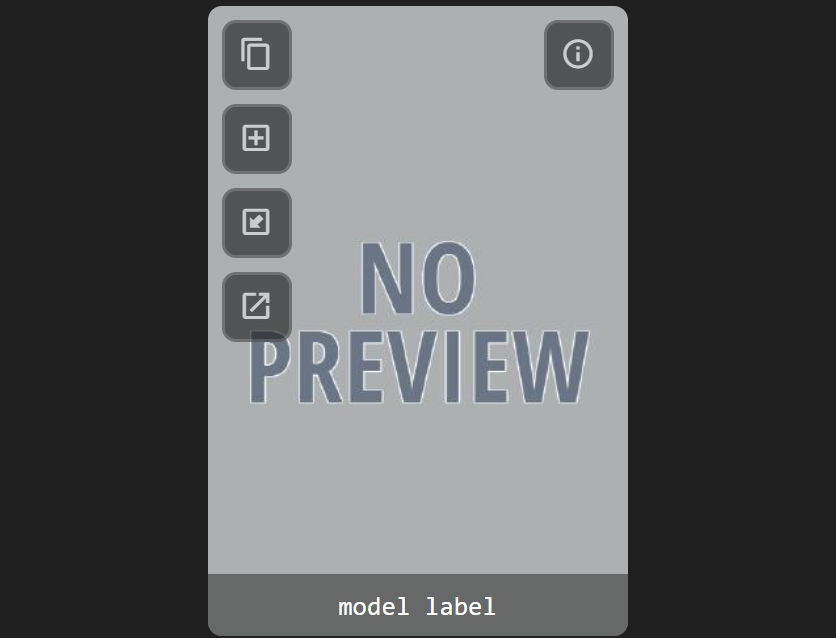
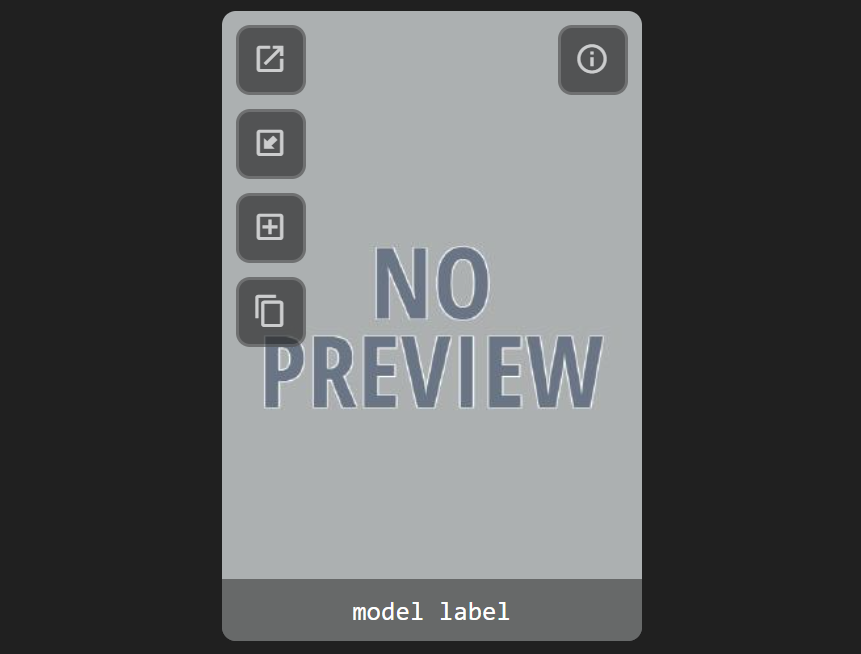
Rearranged model preview thumbnail buttons. (Ordered by action impact.) - Fixed bug with boolean to show Add and Copy buttons.

Changed region(s): [[0.2488, 0.0, 0.7775, 1.0], [0.5287, 0.3574, 0.5598, 0.4169]]

diff --git a/web/model-manager.js b/web/model-manager.js
@@ -1755,12 +1755,13 @@ class ModelGrid {
                 const widgetIndex = ModelGrid.modelWidgetIndex(nodeType);
                 const target = selectedNode?.widgets[widgetIndex]?.element;
                 if (target && target.type === "textarea") {
+                    // TODO: If the node has >1 textareas, the textarea element must be selected
                     target.value = ModelGrid.insertEmbeddingIntoText(target.value, embeddingFile, removeEmbeddingExtension);
                     success = true;
                 }
             }
             if (!success) {
-                console.warn("Try selecting a node before adding the embedding.");
+                window.alert("No selected nodes have a text area!");
             }
             event.stopPropagation();
         }
@@ -1898,10 +1899,10 @@ class ModelGrid {
         // TODO: separate text and model logic; getting too messy
         // TODO: fallback on button failure to copy text?
         const canShowButtons = modelNodeType[modelType] !== undefined;
+        const shouldShowTryOpenModelUrl = canShowButtons && settingsElements["model-show-open-model-url-button"].checked;
+        const showLoadWorkflowButton = canShowButtons && settingsElements["model-show-load-workflow-button"].checked;
         const showAddButton = canShowButtons && settingsElements["model-show-add-button"].checked;
         const showCopyButton = canShowButtons && settingsElements["model-show-copy-button"].checked;
-        const showLoadWorkflowButton = canShowButtons && settingsElements["model-show-load-workflow-button"].checked;
-        const shouldShowTryOpenModelUrl = canShowButtons && settingsElements["model-show-open-model-url-button"].checked;
         const strictDragToAdd = settingsElements["model-add-drag-strict-on-field"].checked;
         const addOffset = parseInt(settingsElements["model-add-offset"].value);
         const showModelExtension = settingsElements["model-show-label-extensions"].checked;
@@ -1925,35 +1926,20 @@ class ModelGrid {
                 const searchPath = item.path;
                 const path = SearchPath.systemPath(searchPath, searchSeparator, systemSeparator);
                 let actionButtons = [];
-                if (showAddButton && !(modelType === "embeddings" && !navigator.clipboard)) {
+                if (shouldShowTryOpenModelUrl) {
                     actionButtons.push(
                         new ComfyButton({
-                            icon: "content-copy",
-                            tooltip: "Copy model to clipboard",
+                            icon: "open-in-new",
+                            tooltip: "Attempt to open model url page in a new tab.",
                             classList: "comfyui-button icon-button model-button",
-                            action: (e) => ModelGrid.#copyModelToClipboard(
-                                e, 
-                                modelType, 
-                                path, 
-                                removeEmbeddingExtension,
-                            ),
-                        }).element,
-                    );
-                }
-                if (showCopyButton) {
-                    actionButtons.push(
-                        new ComfyButton({
-                            icon: "plus-box-outline",
-                            tooltip: "Add model to node grid",
-                            classList: "comfyui-button icon-button model-button",
-                            action: (e) => ModelGrid.#addModel(
-                                e, 
-                                modelType, 
-                                path, 
-                                removeEmbeddingExtension, 
-                                addOffset, 
-                            ),
-                        }).element,
+                            action: async (e) => {
+                                const [button, icon, span] = comfyButtonDisambiguate(e.target);
+                                button.disabled = true;
+                                const success = await tryOpenModelUrl(searchPath);
+                                comfyButtonAlert(e.target, success, "mdi-check-bold", "mdi-close-thick");
+                                button.disabled = false;
+                            },
+                        }).element
                     );
                 }
                 if (showLoadWorkflowButton) {
@@ -1974,20 +1960,35 @@ class ModelGrid {
                         }).element,
                     );
                 }
-                if (shouldShowTryOpenModelUrl) {
+                if (showAddButton) {
                     actionButtons.push(
                         new ComfyButton({
-                            icon: "open-in-new",
-                            tooltip: "Attempt to open model url page in a new tab.",
+                            icon: "plus-box-outline",
+                            tooltip: "Add model to node grid",
                             classList: "comfyui-button icon-button model-button",
-                            action: async (e) => {
-                                const [button, icon, span] = comfyButtonDisambiguate(e.target);
-                                button.disabled = true;
-                                const success = await tryOpenModelUrl(searchPath);
-                                comfyButtonAlert(e.target, success, "mdi-check-bold", "mdi-close-thick");
-                                button.disabled = false;
-                            },
-                        }).element
+                            action: (e) => ModelGrid.#addModel(
+                                e, 
+                                modelType, 
+                                path, 
+                                removeEmbeddingExtension, 
+                                addOffset, 
+                            ),
+                        }).element,
+                    );
+                }
+                if (showCopyButton && !(modelType === "embeddings" && !navigator.clipboard)) {
+                    actionButtons.push(
+                        new ComfyButton({
+                            icon: "content-copy",
+                            tooltip: "Copy model to clipboard",
+                            classList: "comfyui-button icon-button model-button",
+                            action: (e) => ModelGrid.#copyModelToClipboard(
+                                e, 
+                                modelType, 
+                                path, 
+                                removeEmbeddingExtension,
+                            ),
+                        }).element,
                     );
                 }
                 const infoButtons = [
